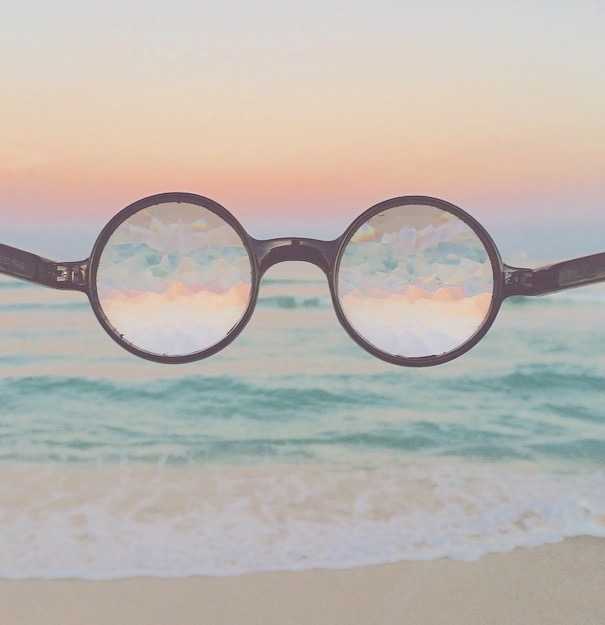
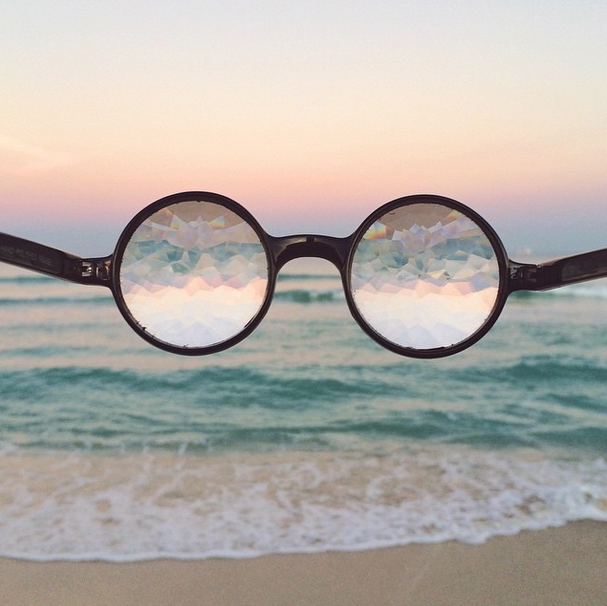
added c3 cultural, modified staging and added bg pic

diff --git a/blog/t3-arrays-hashes.html b/blog/t3-arrays-hashes.html
@@ -14,9 +14,9 @@
 
 <table>
 <tr>
-  <td rowspan='3'><a href="https://samguergen.github.io/index.html"><img src="https://samguergen.github.io/websitelogo.png" alt="My Logo"/> </a></td>
+  <td rowspan='3'><a href="../index.html"><img src="../websitelogo.png" alt="My Logo"/> </a></td>
   <td><a href="@">about me</a></td>
-  <td><b><a href="https://samguergen.github.io/blog/blog-home.html">blog</a></b></td>
+  <td><b><a href="blog-home.html">blog</a></b></td>
   <td><a href="@">CV & tech skills</a></td>
   <td><a href="@">projects</a></td>
   <td><a href="@">social media</a></td>
@@ -36,16 +36,16 @@
 <ul><em>Posts</em>
   <p></p>
   <li>week1
-    <br><a href="https://samguergen.github.io/blog/t1-git-blog.html">Technical</a>
+    <br><a href="t1-git-blog.html">Technical</a>
     </li>
   <p> </p>
     <li>week 2
-      <br><a href="https://samguergen.github.io/blog/t2-css-design.html">Technical</a>
-      <br><a href="https://samguergen.github.io/blog/c1-chefs-kitchen.html">Cultural </a></li>
+      <br><a href="t2-css-design.html">Technical</a>
+      <br><a href="c1-chefs-kitchen.html">Cultural </a></li>
       <p> </p>
     <li>week 3
-      <br><b><a href="https://samguergen.github.io/blog/t3-arrays-hashes.html">Technical</a></b>
-      <br><a href="https://samguergen.github.io/blog/c3-thinking-style.html">Cultural </a></li>
+      <br><b><a href="t3-arrays-hashes.html">Technical</a></b>
+      <br><a href="c3-thinking-style.html">Cultural </a></li>
 
   </div>
 
@@ -131,22 +131,22 @@ announcer(favorite_movies[0:2])
 &nbsp
 <p>Hashes</p>
 
-<p> Similar to an array, a hash stores an amalgam of data into one variable. However, the difference is that instead of having a list of individual data, with a default index, a hash stores a list of key-value pairs.
-<br>Using my previous example, a hash would instead have a value for each movie name, such as my opinion of the movie:</p>
+<p> Similar to an array, a hash stores a list of data into one variable. However, the difference is that instead of individual data, with a default index, a hash stores a list of key-value pairs.
+<br>Using my previous example, if I were to convert my array into a hash, I would instead place a value for each movie name. For example, my opinion of the movie:</p>
 
 <p>
 <b>
-favorites_movies = ["The Matrix": "deep and intelligent",
+favorites_movies = ["The Matrix": "deep, obscure, and thought-provoking",
 <br>"Avatar": "futurist and dreamy",
 <br>"The Lion King": "childhood classic",
 <br>"The Notebook": "chick flick"]
 </b></p>
 
 &nbsp
-<p>Consequently, I were to call the an element according to its position in the hash, the key-value pair would be returned, not the individual value:</p>
+<p>Consequently, I were to call the an element according to its position in the hash, I would first need to conver the hash into an array, because hashes have no default index. In doing so, the key-value pair would be returned, not the individual value:</p>
 
 <p><b>
-favorite_movies[1]
+favorite_movies.to_a[1]
 
 <br>=>
 <br><em>Avatar: futurist and dreamy</em></b></p>
@@ -155,7 +155,12 @@ favorite_movies[1]
 <p>If I were to return the value instead (my opinion of a movie), I would call it by its key, not by its default index. </p>
 
 <p><b>
-favorite_movies["Avatar"]
+favorite_movies["Avatar"]</p>
+
+<p>(or sorting by index, but specifying amout the values only)
+</p>
+
+<p>favorites_movies.values[1]</p>
 
 <br>=>
 <br><em>futurist and dreamy</em></b></p>
@@ -167,7 +172,7 @@ favorite_movies["Avatar"]
 </div>
 </div>
 
-<div id="footer">This website is protected under the <a href="https://samguergen.github.io/LICENSE">MIT license</div>
+<div id="footer">This website is protected under the <a href="LICENSE">MIT license</div>
 
 </div>
   </body>

diff --git a/blog/c3-thinking-style.html b/blog/c3-thinking-style.html
@@ -53,12 +53,12 @@
 
 <h4><center> week 2</center></h4>
 <h4>
-  01/08/2015
+  01/09/2015
 <p> Thinking Style</p></h4>
 
-
-
-
+<p>After taking the Gregorc Thinking test, which we were advised to take at the beginning of our Dev Bootcamp experience, I found out that I was an Abstract Sequential Thinker. This means that I love the world of theory and abstract thoughts, unsurprising since I was a Philosophy major.</p>
+<p>This thinking style eventually revealed itself after analyzing my pattern of thinking through the HTML/CSS and Ruby exercises that I completed so far. I noticed, from my notes, wireframes and pseudocodes, that before even writing down my code, I will tend to focus on the 'bigger' picture first: What am I trying to achieve? What will be the general logic and control flow of my method?</p>
+<p>These are questions I think about before even thinking about the difference situations, or types of inputs and outputs that my method will receive. So far, this type of thinking style proved to be rather helpful and quite compatible with the "programmer" way of thinking, but there is always room for improvement. For example, the input and output of your method is something to constantly keep in mind, not only after thinking through the logic.</p>
 
 
 </div>

diff --git a/indexstaging.html b/indexstaging.html
@@ -2,7 +2,7 @@
 <head>
 <title>Sam's Website</title>
 <meta charset="utf-8">
-<link rel="stylesheet" type="text/css" href="/users/samanthaguergenenov/Desktop/DevBootcamp/samguergen.github.io/stylesheets/defaultstaging.css">
+<link rel="stylesheet" type="text/css" href="stylesheets/defaultstaging.css">
 
 
 </head>

diff --git a/stylesheets/defaultstaging.css b/stylesheets/defaultstaging.css
@@ -3,7 +3,7 @@ padding: 20px auto;
 color:  #7C5300;
 font-family: Baskerville;
 font-size: large;
-background-image: url (/Users/samanthaguergenenov/Desktop/DevBootcamp/samguergen.github.io/beachbg2.png);
+background-image: url ('../beachbg2.png');
 background-attachment: fixed;
 }
 
